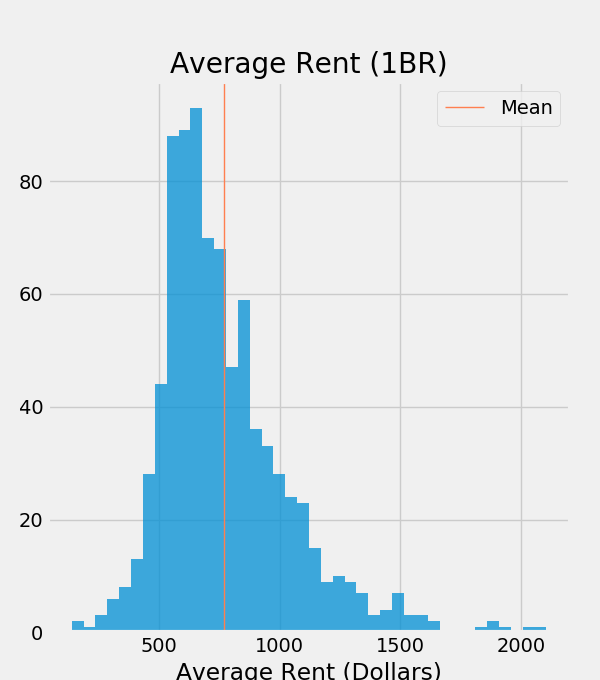
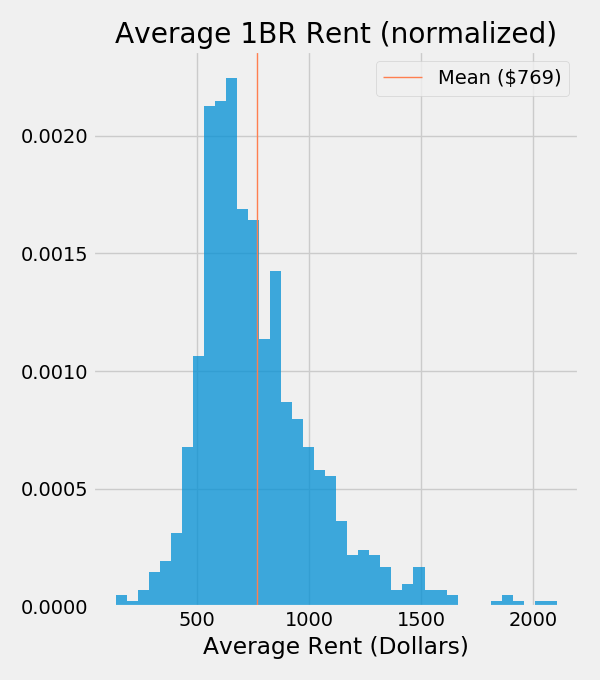
updated rent hist and prepared expenses for plotting

diff --git a/src/cap1_script.py b/src/cap1_script.py
@@ -51,6 +51,16 @@ def convert_data_types(df, cols, target):
         for i in cols:
             df[i] = df[i].astype(target)
 
+def merge_and_average_dfs(df1, df2, cols, new_index):
+    new_df = pd.DataFrame(index=new_index, columns=cols)
+    for i in cols:
+        new_df[i] = (df1[i] + df2[i]) / 2
+
+    return new_df
+
+
+
+
 
 if __name__ == "__main__":
 
@@ -59,6 +69,7 @@ if __name__ == "__main__":
     single_fem = pd.read_excel('data/femaleinc.xlsx', skiprows=2)
     single_male = pd.read_excel('data/maleinc.xlsx', skiprows=2)
     mortgage = pd.read_csv('data/mortgage.csv')
+    all_singles_average = pd.DataFrame(columns=['Food', 'Housing', 'Healthcare', "Transportation"])
     
 # Cleaning and Organizing (Rent)
     # removing placeholder string chrs
@@ -91,6 +102,9 @@ if __name__ == "__main__":
     single_male = single_male[['Food', 'Housing', 'Healthcare', 'Transportation']]
     single_male = single_male.iloc[:, [0,2,4,6]]
 
+    
+
+
 # Cleaning and Organizing (Mortgage)
     # cut out extra info
     mortgage = mortgage.loc[:,'S2506_C01_029E':'S2506_C02_039M']
@@ -102,23 +116,50 @@ if __name__ == "__main__":
     mortgage = mortgage[1:]
 
 # The Plot Thickens
+    #Rent
     fig, ax = plt.subplots(figsize=(6,6.8))
-    ax.hist(rent['1bed'], bins=40, alpha=.75)
+    ax.hist(rent['1bed'], bins=40, alpha=.75, density=1)
     ax.set_xlabel('Average Rent (Dollars)')
-    ax.set_title("Average Rent (1BR)")
-    ax.axvline(np.mean(rent['1bed']), color='coral', linewidth=1, label='Mean')
+    ax.set_title("Average 1BR Rent (normalized)")
+    ax.axvline(np.mean(rent['1bed']), color='coral', linewidth=1, label='Mean ($769)')
+    plt.tight_layout()
     ax.legend()
 
-#an attempt at fitting a line
-    # rent_dist = stats.norm(loc=np.mean(rent['1bed']), scale=np.std(rent['1bed']) )
-    # y = rent_dist.pdf(40)
-    # ax.plot(x, rent_dist.pdf(x)*10000)
-    # y = stats.norm.pdf(40, np.mean(rent['1bed']), np.std(rent['1bed']))
-    # x = np.linspace(0,2300, len(rent['1bed']))
-    # m, s = stats.norm.fit(rent['1bed'])
-    # pdf_g = stats.norm.pdf(x, m, s)
-
-
-    # ax.plot(x, y, 'r--')
     plt.savefig('images/rent_hist.png')
-    plt.show()
+
+    #fitting a line
+    x = np.linspace(0,2300, len(rent['1bed']))
+    mu, sigma = stats.norm.fit(rent['1bed'])
+    pdf_g = stats.norm.pdf(x, mu, sigma)
+    ax.plot(x,pdf_g, 'r--', linewidth=1.5)
+
+    
+    plt.savefig('images/rent_hist_with_dist.png')
+    plt.close()
+
+    #Mortgage
+    fig, ax = plt.subplots(figsize=(10,5))
+    labels = [list(mortgage.columns)[i] for i in list(range(0,22,2))]
+    data = [int(i) for i in mortgage.iloc[0].iloc[list(range(0,19,2))]]  # every other entry from the first row
+    width = 1.8
+    ticklocations = np.array([1,3,5,7,9,11,13,15,17,19])
+    ax.bar(ticklocations, list(data), width, alpha=.8)
+    ax.set_xticklabels(labels, fontsize=14, rotation=60)
+    ax.set_title("Mortgage Rates ($/month)")
+    ax.set_yscale("linear")
+    plt.tight_layout()
+    plt.savefig('images/mortgage_hist.png')
+    plt.close()
+    # plt.show()
+
+    #Expenses
+    food_male = single_male['Food'].iloc[1:-2]
+    healthcare_male = single_male['Healthcare'].iloc[1:-2]
+    housing_male = single_male['Housing'].iloc[1:-2]
+    transportation_male = single_male['Transportation'].iloc[1:-2]
+
+    food_fem =single_fem['Food'].iloc[1:-1]
+    
+
+
+

diff --git a/README.md b/README.md
@@ -4,15 +4,21 @@ something something something dark side
 gee that'd be swell
 
 # Data
+
+assumptions about normal distribution
 ## U.S. Census
 ### Rent
 ### Mortgage
 ## Bureau of Labor Statistics
 ### Expenses
+only people making up to 69k/yr
 
 # EDA
 ## The Cost of Housing
 ![](images/rent_hist.png)
+![](images/rent_hist_with_dist.png)
+
+![](images/mortgage_hist.png)
 ## Other "Core" Expenses
 ## The Full Picture
 ### How does it compare?
